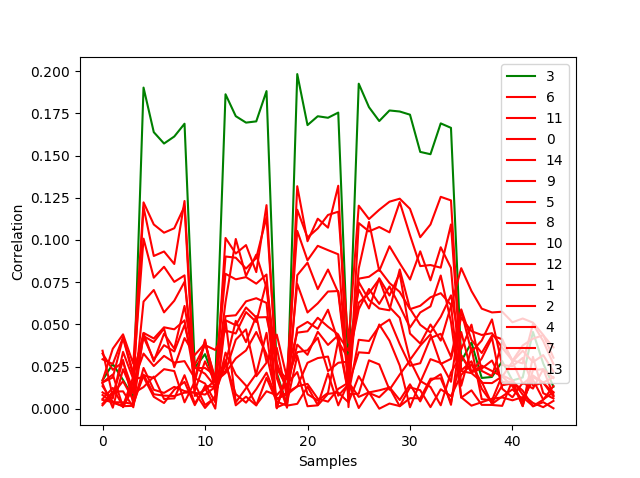
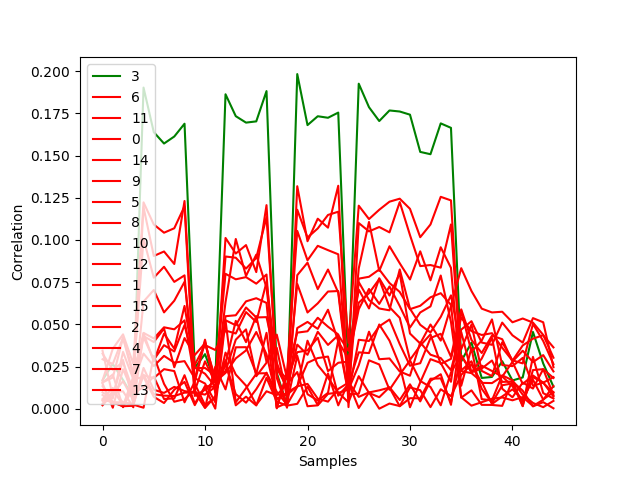
Source code, ready for submission

diff --git a/analysis_part2.py b/analysis_part2.py
@@ -2,10 +2,10 @@ import scipy.io
 import numpy
 from scipy.stats.stats import pearsonr
 import matplotlib.pyplot as plt
-from random import randint
 
 __author__ = "Tom Sandmann (s4330048) & Abdullah Rasool (s4350693)"
 
+# Present sbox
 sbox = dict([
     (0, 12),
     (1, 5),
@@ -25,46 +25,22 @@ sbox = dict([
     (15, 2),
 ])
 
-
 def read_input_file():
     """ Read the input trace file
     :return: array of all the input traces"""
     return scipy.io.loadmat('input.mat')['input']
 
 
-def calculate_y(inputs):
-    value_predication_matrix = numpy.zeros((2000, 15))
-
-    row = 0
-    keys = range(0, 15) # All possible keys k
-    for in_value in inputs:
-        in_value = in_value[0]
-        for k in keys:
-            x0 = r0 = randint(0, 15) # 4 bit random value
-            in1 = in_value ^ r0
-            x1 = in1 ^ k
-            y0 = lookup_table_A(x0, x1)
-            y1 = lookup_table_B(x0, x1)
-            value_predication_matrix[row][k] = y0 ^ y1
-        row += 1
-    return value_predication_matrix
-
-
-def lookup_table_A(x0, x1):
-    bin_x0 = format(x0, '04b')
-    bin_x1 = format(x1, '04b')
-    return "a"
-
-def lookup_table_B(x0, x1):
-    # sbox[hex(x0 ^ x1)] ^ lookup_table_A(x0Z)
-    return "b"
-
-
 def calculate_y_no_masking(inputs):
-    value_predication_matrix = numpy.zeros((2000, 15))
+    """
+    Compute the outputs given the inputs by performing the regular Present cipher without masking
+    :param inputs: 
+    :return: 
+    """
+    value_predication_matrix = numpy.zeros((2000, 16))
 
     row = 0
-    keys = range(0, 15)  # All possible keys k
+    keys = range(0, 16)  # All possible keys k
     for in_value in inputs:
         in_value = in_value[0]
         for k in keys:
@@ -83,6 +59,11 @@ def read_traces_file():
 
 
 def preprocess_traces(traces):
+    """
+    Preprocess all the traces
+    :param traces: 
+    :return: 
+    """
     traces_prime = []
     for trace in traces:
         traces_prime.append(preprocess_row(trace))
@@ -106,9 +87,15 @@ def preprocess_row(row):
 
 
 def correlation_analysis(p_traces, vpm):
+    """
+    Compute the correlation between the preprocessed traces and the vpm
+    :param p_traces: 
+    :param vpm: value prediction matrix (key, input => present cipher => output) 
+    :return: 
+    """
     candidates = []
 
-    for candidate in range(15):
+    for candidate in range(16):
         time_samples = []
         coefficients = []
         for sample in range(45):

diff --git a/analysis_part1.py b/analysis_part1.py
@@ -4,6 +4,7 @@ from scipy.stats.stats import pearsonr
 import matplotlib.pyplot as plt
 
 __author__ = "Tom Sandmann (s4330048) & Abdullah Rasool (s4350693)"
+__note__ = "Running this script might take a long time due to the big matrixes."
 
 # Inverted S-box layer, courtesy of https://gist.github.com/bonsaiviking/5571001
 Sbox_inv = (
@@ -48,8 +49,8 @@ def generate_all_keys():
 def hamming_distance(s1, s2):
     """
     Calculate the hamming distance of two values, courtesty of https://en.wikipedia.org/wiki/Hamming_distance
-    :param s1: input, converted to 8 bit 
-    :param s2: input, converted to 8 bit
+    :param s1: input, converted to 8 bit, fixed length in the environment
+    :param s2: input, converted to 8 bit, fixed length in the environment
     :return: the hamming distance of s1 and s2
     """
     s1 = format(s1, '08b') # Convert to 8 bit binary
@@ -69,9 +70,9 @@ def create_hamming_distance_matrix(outputs, keys):
     hamming_distance_matrix = numpy.zeros((10000, 256)) # 10.000 rows, 256 columns
     row = 0
     for output in outputs:
-        output = output[0]
+        output = output[0] # returns oddly enough an array, first element is the xor value...
         for k in keys:
-            output_xor_k = k ^ output # returns oddly enough an array, first element is the xor value...
+            output_xor_k = k ^ output
             s_in = Sbox_inv[output_xor_k]
             hd_value = hamming_distance(output, s_in)
             hamming_distance_matrix[row][k] = hd_value
